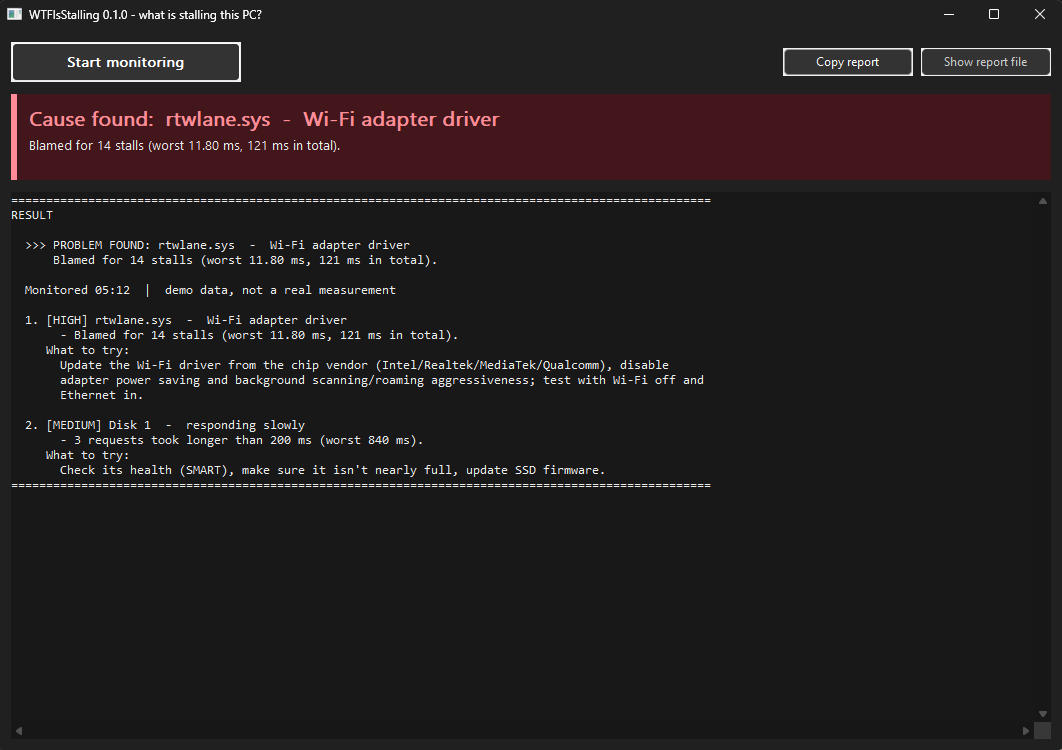
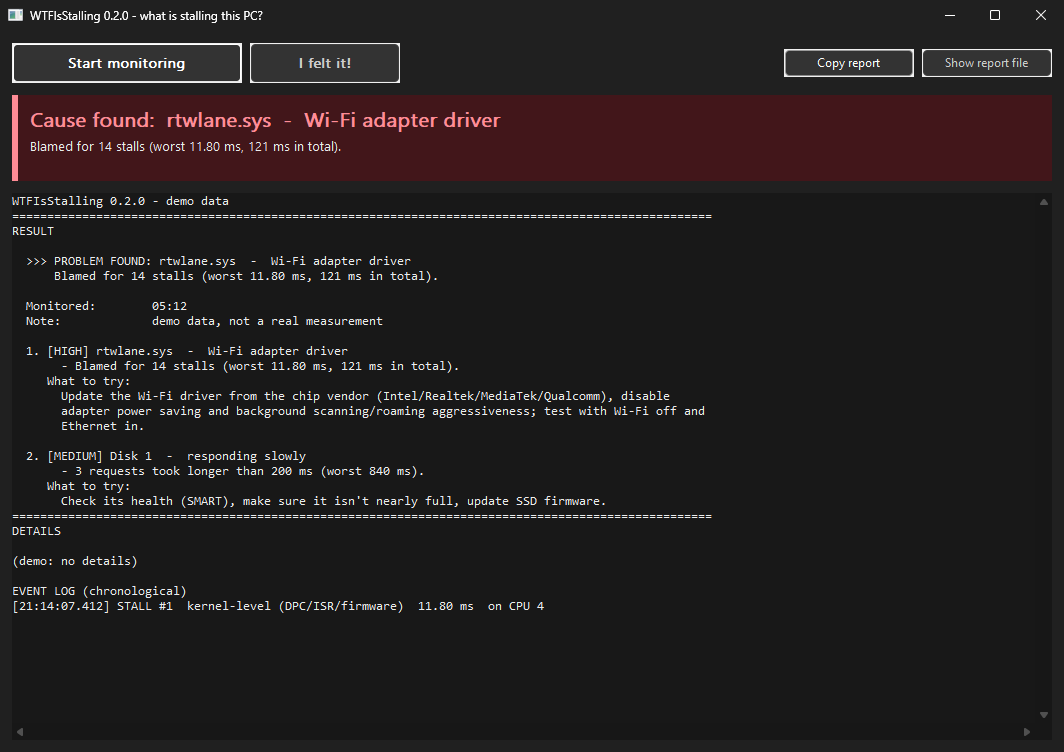
README: screenshots of the 0.2.0 window (captured from the app window only)

diff --git a/README.md b/README.md
@@ -42,6 +42,8 @@ try for each, followed by the supporting numbers and the event log. A copy is sa
 | --- | --- |
 | ![Cause found (dark theme)](docs/screenshot-result-dark.png) | ![Suspect found (light theme)](docs/screenshot-result-light.png) |
 
+![While monitoring: press "I felt it!" or Ctrl+Shift+F9 when a hitch happens](docs/screenshot-monitoring.png)
+
 *(Screenshots show built-in demo data.)*
 
 ## What it can pin down
